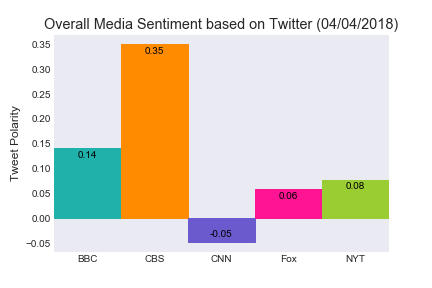
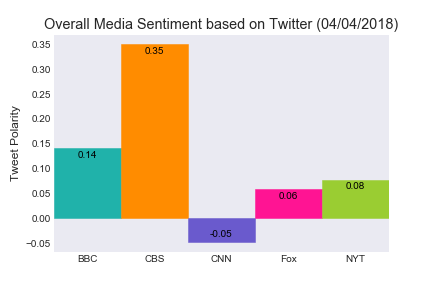
Observable trend report added

diff --git a/README.md b/README.md
@@ -5,10 +5,7 @@
 import tweepy
 import numpy as np
 import pandas as pd
-from datetime import datetime
 import matplotlib.pyplot as plt
-from matplotlib import style
-style.use('ggplot')
 
 # Import and Initialize Sentiment Analyzer
 from vaderSentiment.vaderSentiment import SentimentIntensityAnalyzer
@@ -825,7 +822,7 @@ bar_bbc,bar_cbs,bar_cnn,bar_fox,bar_nyt = plt.bar(np.arange(0, 5), [mean_grouby[
                                                                     mean_grouby["@CBS"],
                                                                     mean_grouby["@CNN"],
                                                                     mean_grouby["@FoxNews"],
-                                                                    mean_grouby["@nytimes"]], width=1, linewidth=1)
+                                                                    mean_grouby["@nytimes"]], width=1)
 # set bar color
 bar_bbc.set_color("lightseagreen")
 bar_cbs.set_color("darkorange")
